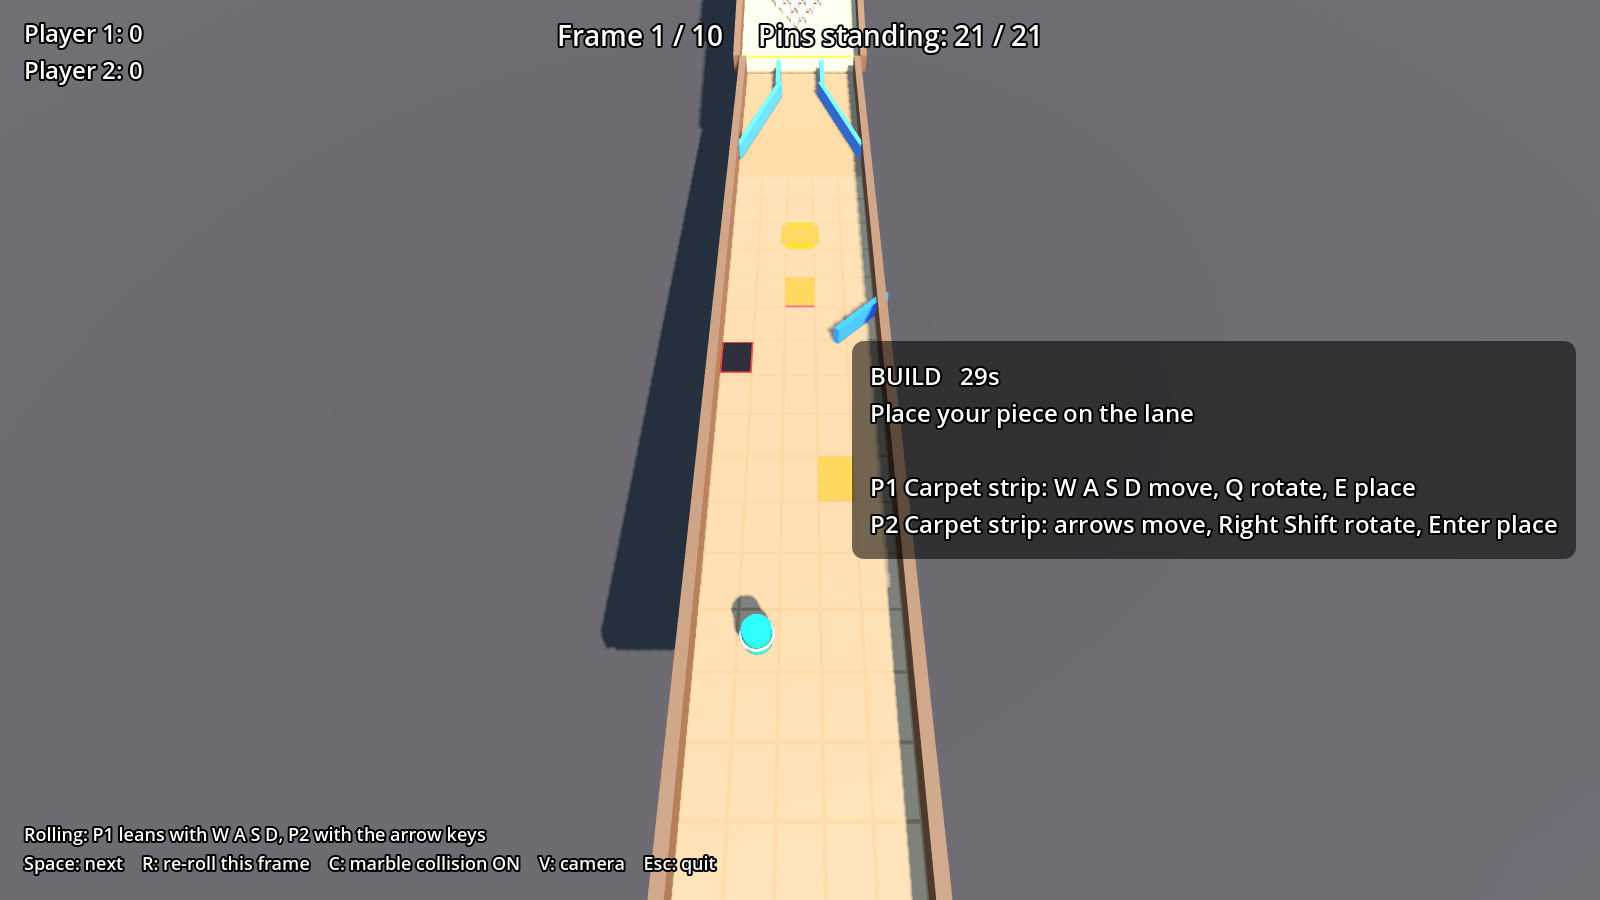
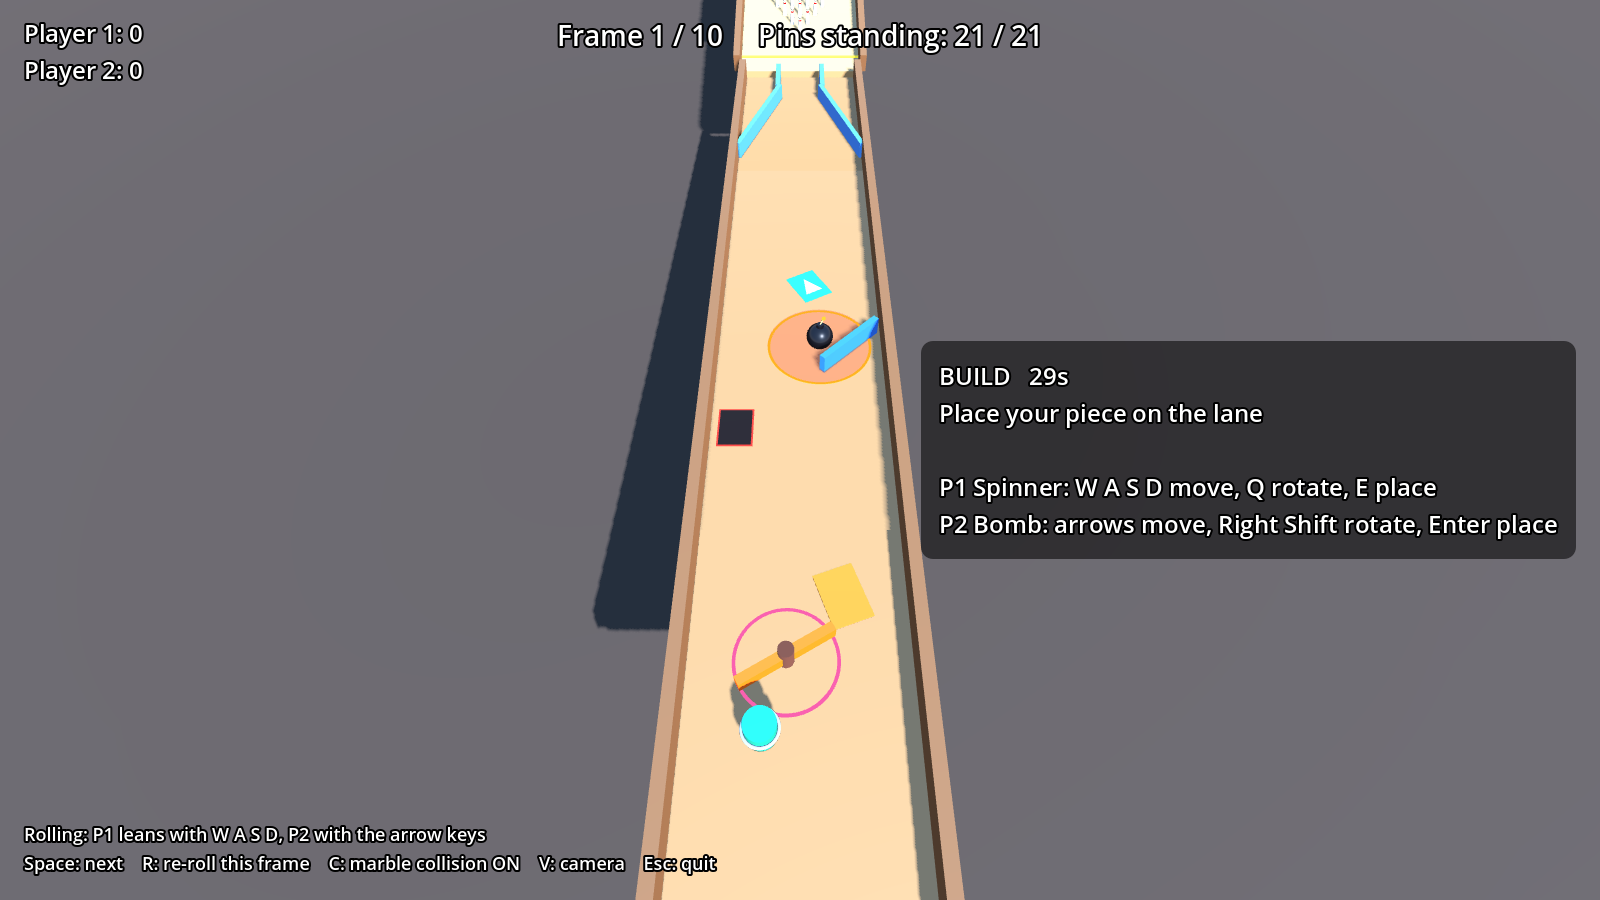
Free placement anywhere on the lane, and the bomb item
Build cursors now glide smoothly (hold to move, Q / Right Shift to turn
in 15-degree steps) instead of snapping to grid squares. A ring in the
player's colour shows each piece's footprint and turns red where it
would sit on another piece. The bomb is a draftable one-shot item that
removes every placed piece inside its blast circle.

Claude-Session: https://claude.ai/code/session_014TBodYBui2AU4FMudFP2wh

Changed region(s): [[0.3438, 0.1244, 0.9062, 1.0], [0.4688, 0.0622, 0.5312, 0.1244], [0.4375, 0.1244, 0.4688, 0.1556]]

diff --git a/README.md b/README.md
@@ -11,7 +11,7 @@ A party game where friends build a bowling lane together, then race physics marb
 Each frame has four steps, like the design doc:
 
 1. **Draft (15 s):** a crate opens with one piece per player plus 2 extras. Everyone grabs one at the same time. First to grab a piece gets it.
-2. **Build (30 s):** everyone places their piece on the grid at once. Pieces stay on the lane for the rest of the match.
+2. **Build (30 s):** everyone slides their piece anywhere on the lane, turns it, and drops it, all at the same time. A ring shows your cursor and turns red where the piece won't fit. Pieces stay on the lane for the rest of the match.
 3. **Roll (30 s max):** marbles drop together, crash into each other, and race to one shared rack of 21 pins. You can lean your marble, but the lane does most of the work.
 4. **Score:** pins are credited, the scoreboard updates, and the rack resets.
 
@@ -28,6 +28,7 @@ A match is 10 frames. The lane starts empty except for a funnel in front of the 
 | Booster pad | Fires a marble the way its arrow points (rotate it to aim) |
 | Spinner | A paddle that never stops turning and swats marbles around |
 | Gutter cut | A hole: fall in and your frame is over. Whoever placed it gets +2 |
+| Bomb (item) | Drop it on the lane to blow up every piece inside the red circle. It doesn't stay |
 
 ## How to play it
 
@@ -77,7 +78,8 @@ Most numbers you'll want to tweak are editable in the Godot editor without touch
 | Lane steepness | `scenes/course.tscn`, `Slope` node | Rotation X (more negative = steeper) |
 | The fixed funnel | `scenes/course.tscn`, `Slope/Pieces/Funnel` | Drag it in the 3D view |
 | Players, frames, timers, crate size, collision | `scenes/main.tscn`, `Main` node | Player Count, Frames Per Match, Draft Time, Build Time, Crate Extra, Roll Time Limit, Marbles Collide |
-| Build grid size | `scenes/course.tscn`, `Slope/Placed` node | Columns, Rows, Cell Width, Cell Length |
+| Build area and how close pieces can go | `scenes/course.tscn`, `Slope/Placed` node | Half Width, Top Z, Bottom Z, Overlap Allowed |
+| Build cursor speed and rotate step | `scenes/main.tscn`, `Main` node | Cursor Speed, Rotate Step |
 
 ## How the project is laid out
 
@@ -96,8 +98,8 @@ scripts/
   scoring.gd         the scoring rules, on their own
   piece_catalog.gd   the list of draftable pieces (add new ones here)
   draft_build.gd     draft and build rules
-  course_builder.gd  the build grid and placed pieces
-  booster_pad.gd, carpet_strip.gd, gutter_cut.gd   piece behaviour
+  course_builder.gd  the build area, placed pieces, and the bomb
+  booster_pad.gd, carpet_strip.gd, gutter_cut.gd, spinner.gd   piece behaviour
   controls.gd        all the key bindings
   camera_rig.gd      follow camera
   hud.gd             scoreboard text
